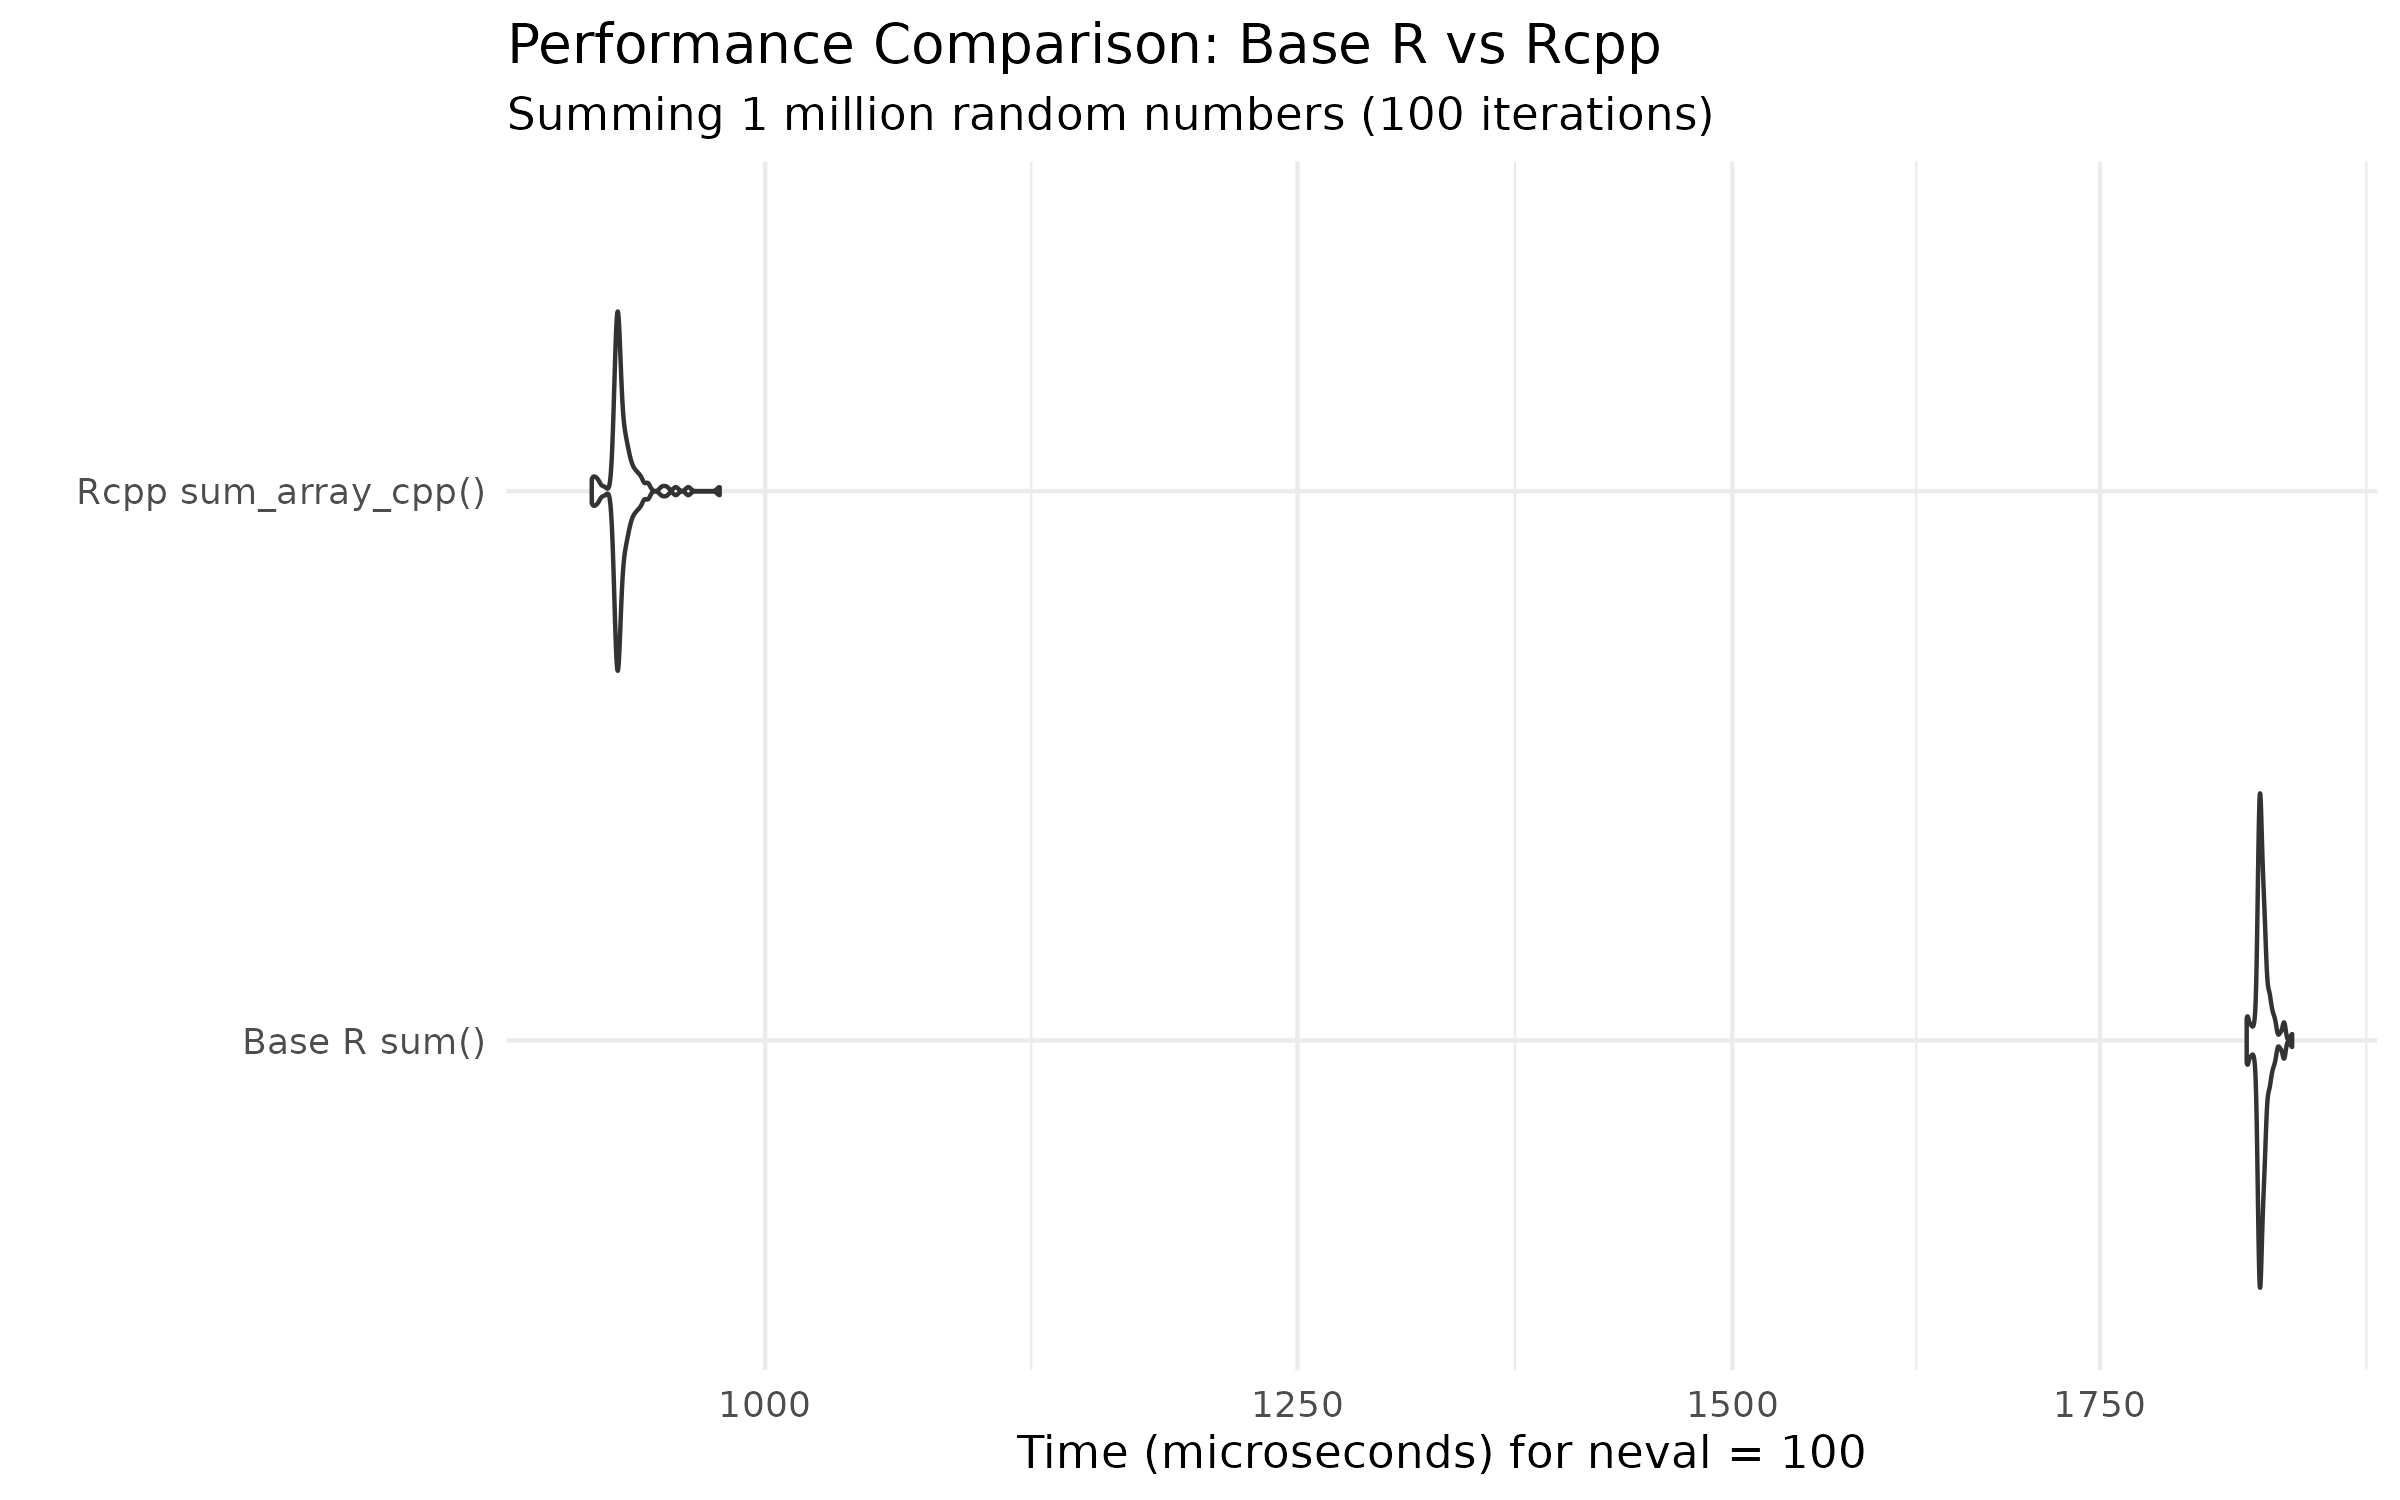
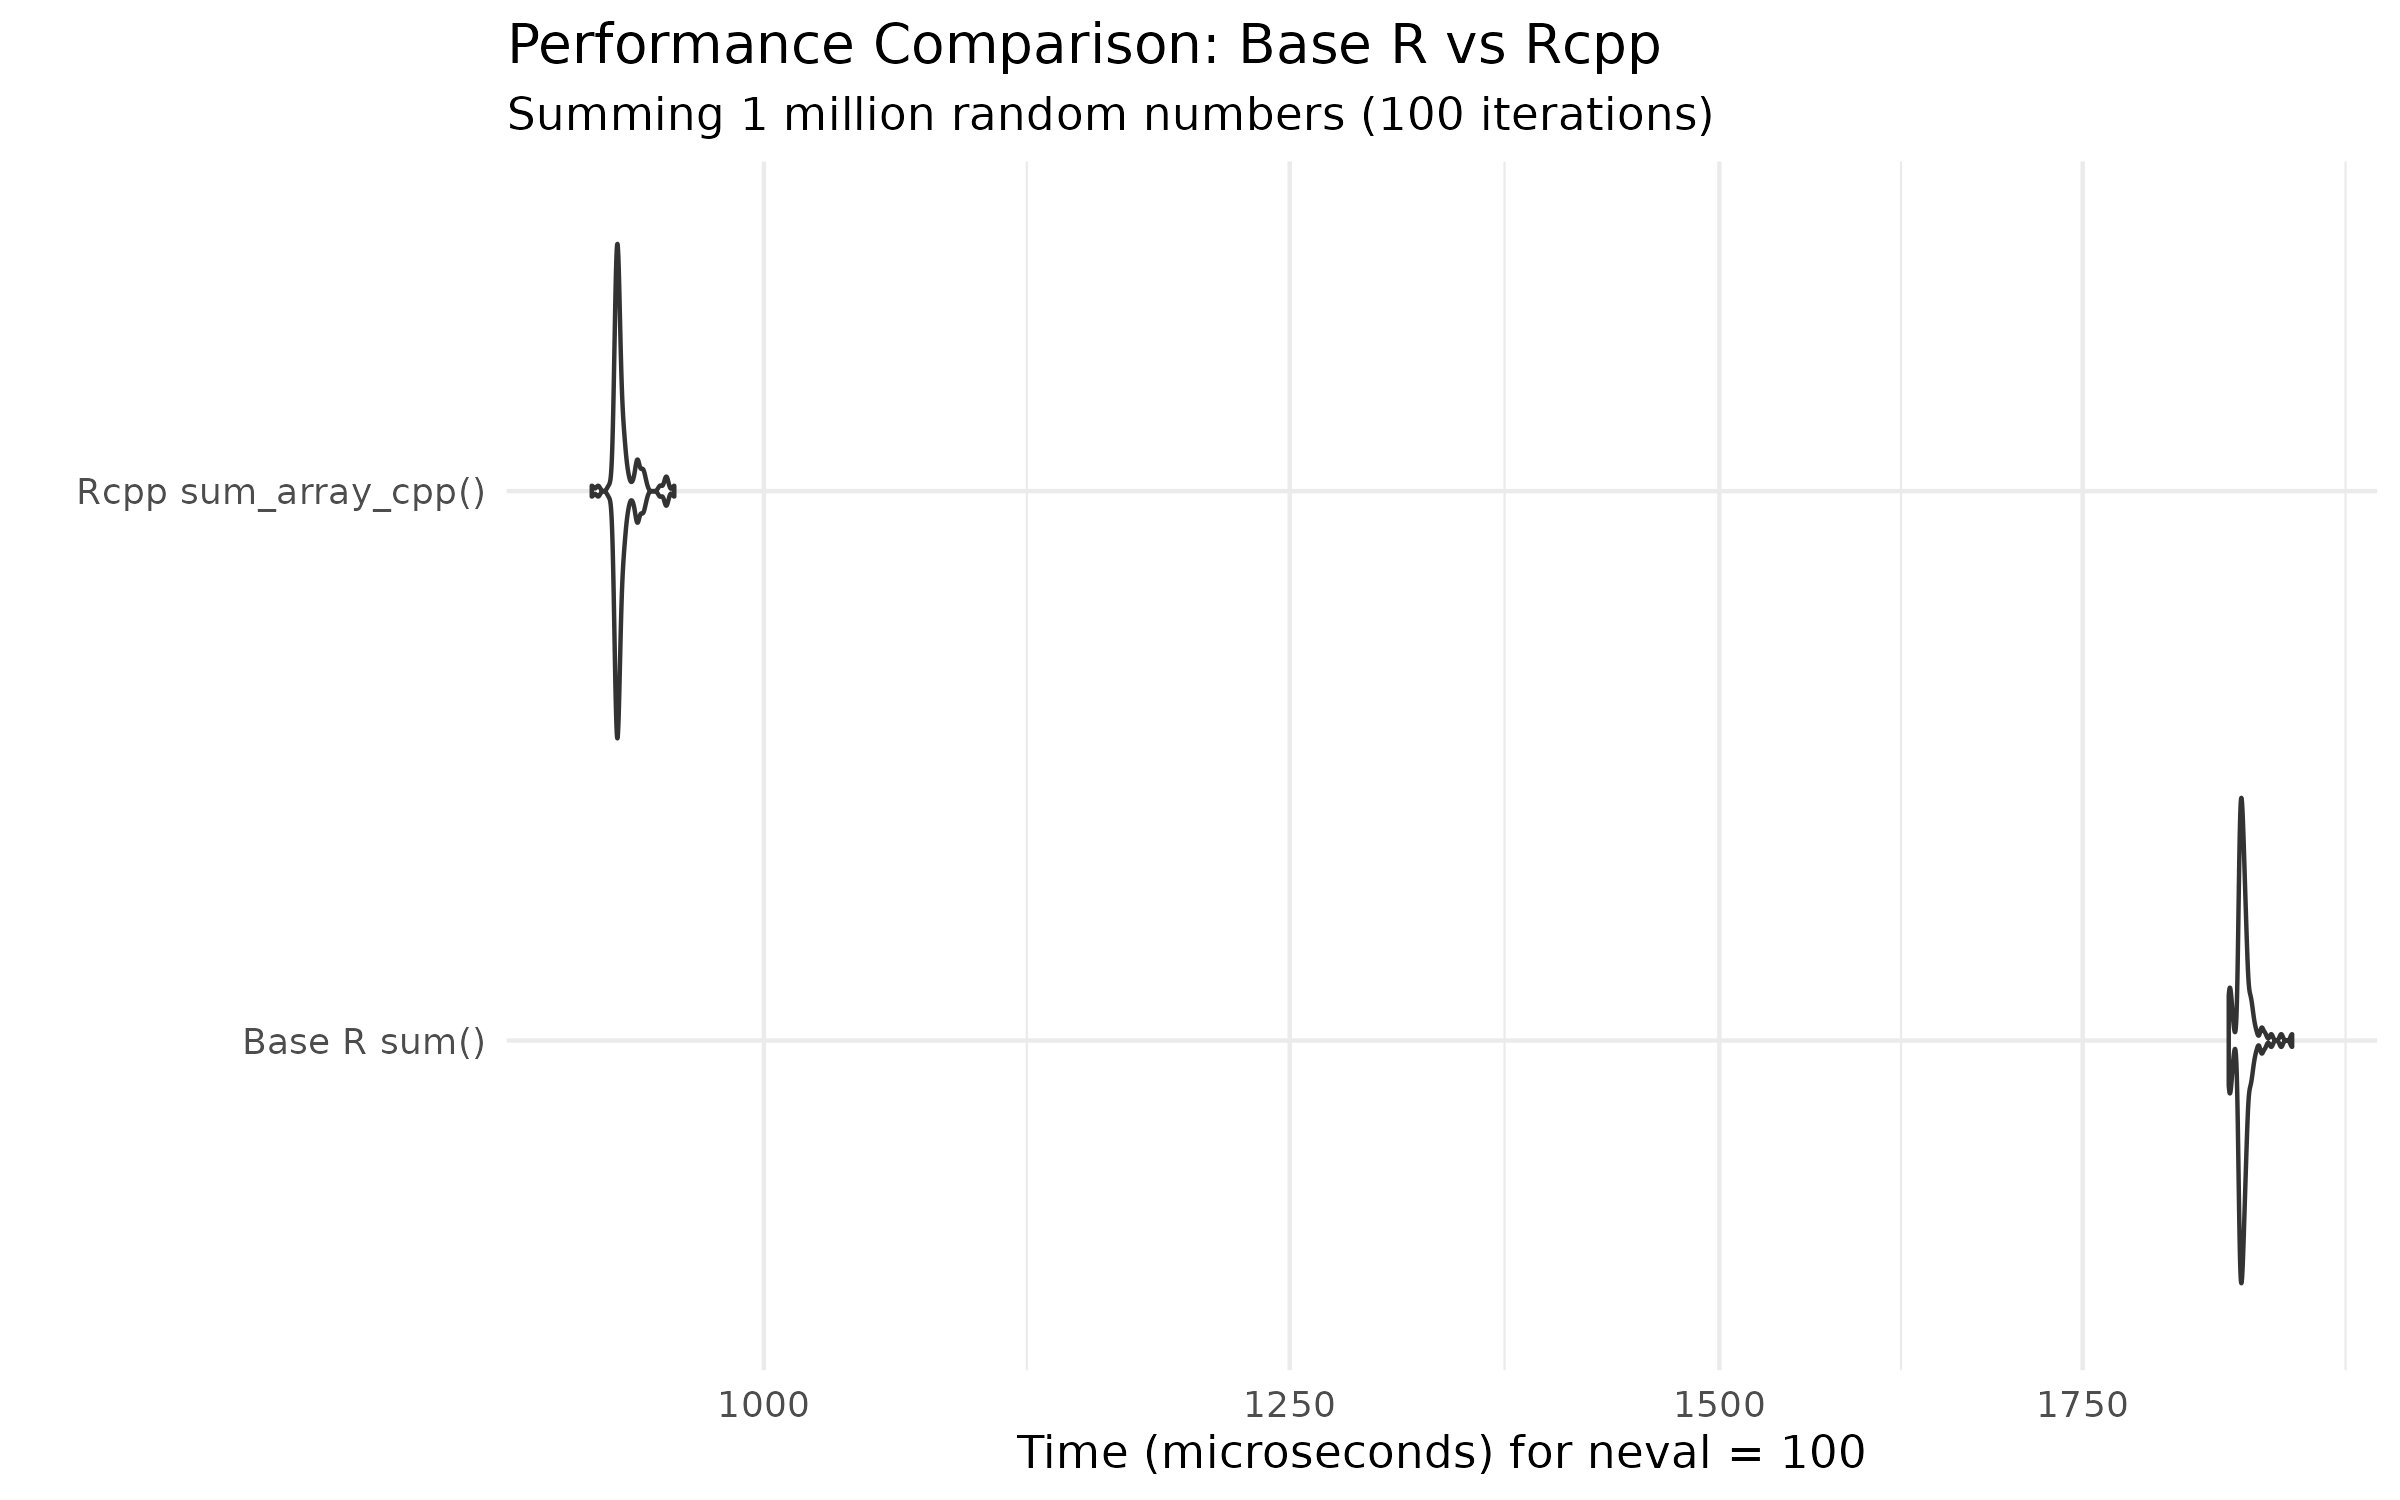
Deploying to gh-pages from @ derecksprojects/templateRpackage@7b8c9c1bfa43239c674ed4d8bf3a6702f00de7c1 🚀

diff --git a/articles/demo.html b/articles/demo.html
@@ -132,9 +132,9 @@ base R’s <code><a href="https://rdrr.io/r/base/sum.html" class="external-link"
 <span></span>
 <span><span class="fu"><a href="https://rdrr.io/r/base/print.html" class="external-link">print</a></span><span class="op">(</span><span class="va">mb</span><span class="op">)</span></span>
 <span><span class="co">#&gt; Unit: microseconds</span></span>
-<span><span class="co">#&gt;                  expr      min        lq      mean   median       uq      max</span></span>
-<span><span class="co">#&gt;          Base R sum() 1860.893 1870.8960 1873.5716 1872.404 1875.364 1896.700</span></span>
-<span><span class="co">#&gt;  Rcpp sum_array_cpp()  929.895  939.6885  942.3272  940.455  943.376  981.131</span></span>
+<span><span class="co">#&gt;                  expr      min       lq      mean   median       uq      max</span></span>
+<span><span class="co">#&gt;          Base R sum() 1861.906 1870.742 1873.8565 1872.670 1875.626 1912.691</span></span>
+<span><span class="co">#&gt;  Rcpp sum_array_cpp()  929.555  939.403  942.0178  940.125  942.314  962.697</span></span>
 <span><span class="co">#&gt;  neval</span></span>
 <span><span class="co">#&gt;    100</span></span>
 <span><span class="co">#&gt;    100</span></span></code></pre></div>

diff --git a/articles/demo.md b/articles/demo.md
@@ -72,9 +72,9 @@ mb <- microbenchmark(
 
 print(mb)
 #> Unit: microseconds
-#>                  expr      min        lq      mean   median       uq      max
-#>          Base R sum() 1860.893 1870.8960 1873.5716 1872.404 1875.364 1896.700
-#>  Rcpp sum_array_cpp()  929.895  939.6885  942.3272  940.455  943.376  981.131
+#>                  expr      min       lq      mean   median       uq      max
+#>          Base R sum() 1861.906 1870.742 1873.8565 1872.670 1875.626 1912.691
+#>  Rcpp sum_array_cpp()  929.555  939.403  942.0178  940.125  942.314  962.697
 #>  neval
 #>    100
 #>    100
